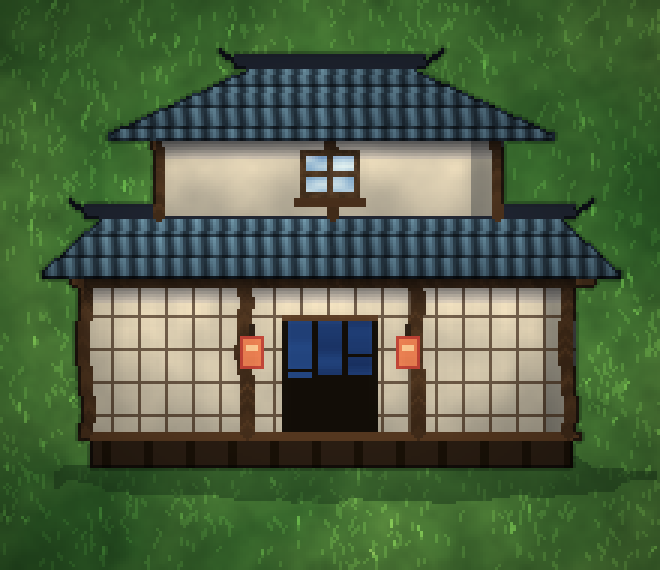
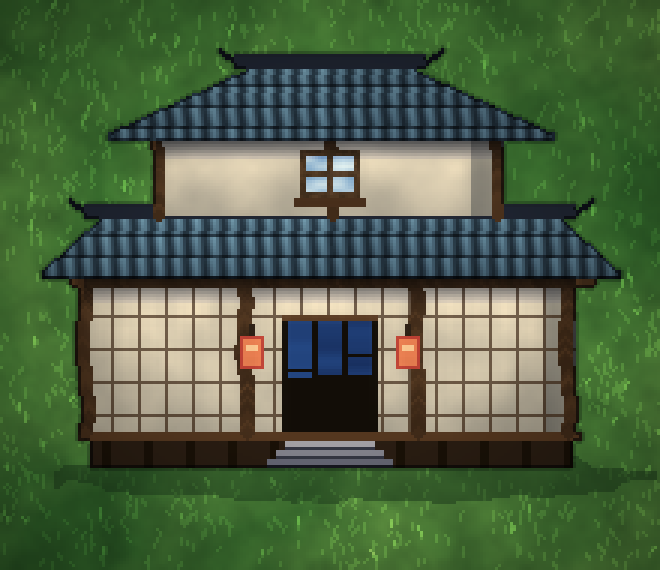
Building samples: sign frame, dojo steps, outlined windmill sails

Changed region(s): [[0.3939, 0.7754, 0.6061, 0.8351]]

diff --git a/tests/tools/buildings.test.ts b/tests/tools/buildings.test.ts
@@ -99,6 +99,10 @@ function schoolHut(r: Raster, rng: Rng): void {
   r.rect(cx - 54, base - 36, 2, 36, hex('#4a3018'));
   r.rect(cx - 70, base - 46, 34, 14, hex('#d9a85a'));
   r.rect(cx - 69, base - 45, 32, 12, hex('#f3d088'));
+  r.rect(cx - 71, base - 47, 36, 1, hex('#4a3018'));
+  r.rect(cx - 71, base - 32, 36, 1, hex('#4a3018'));
+  r.rect(cx - 71, base - 47, 1, 16, hex('#4a3018'));
+  r.rect(cx - 36, base - 47, 1, 16, hex('#4a3018'));
   for (let i = 0; i < 4; i++)
     r.rect(
       cx - 66 + i * 8,
@@ -148,6 +152,12 @@ function dojo(r: Raster, rng: Rng): void {
       );
   }
   r.rect(ex, base - 51, 32, 2, hex('#6e4525'));
+  for (let i = 0; i < 3; i++) {
+    const sw = 30 + i * 6;
+    const sy = base - 9 + i * 3;
+    r.rect(ex + 16 - sw / 2, sy, sw, 3, mix(hex('#b4b4bf'), hex('#7a7a88'), i / 2));
+    r.rect(ex + 16 - sw / 2, sy + 2, sw, 1, hex('#45454f'));
+  }
   for (const lx of [ex - 10, ex + 42]) {
     r.rect(lx - 4, base - 44, 8, 11, hex('#e04a3a'));
     r.rect(lx - 3, base - 43, 6, 9, hex('#ff8a5a'));
@@ -383,26 +393,16 @@ function windmill(r: Raster, rng: Rng): void {
     r.line(hx + 1, hy, ex + 1, ey, hex('#5a3a1f'));
     const px = -Math.sin(a);
     const py = Math.cos(a);
-    for (let s = 10; s < 50; s += 2) {
-      const sx = hx + Math.cos(a) * s;
-      const sy = hy + Math.sin(a) * s;
-      const open = Math.floor(s / 8) % 2 === 0;
-      r.line(
-        sx,
-        sy,
-        sx + px * 11,
-        sy + py * 11,
-        open ? hex('#e8e2ee') : hex('#6e4525'),
-        open ? 0.85 : 1,
-      );
+    for (let s = 8; s <= 52; s += 1) {
+      for (let t = 0; t <= 12; t += 1) {
+        const sx = hx + Math.cos(a) * s + px * t;
+        const sy = hy + Math.sin(a) * s + py * t;
+        const edge = t === 0 || t === 12 || s === 8 || s === 52;
+        const bar = s % 11 === 0 || t === 6;
+        const cloth = mix(hex('#d8d0c4'), hex('#f4efe6'), vnoise(s / 4, t / 3, 60 + k));
+        r.set(sx, sy, edge ? hex('#2a1a0e') : bar ? hex('#6e4525') : cloth);
+      }
     }
-    r.line(
-      hx + Math.cos(a) * 10 + px * 11,
-      hy + Math.sin(a) * 10 + py * 11,
-      ex + px * 11,
-      ey + py * 11,
-      hex('#3a2616'),
-    );
   }
   r.disc(hx, hy, 3.5, hex('#3a2616'));
   r.disc(hx, hy, 1.5, hex('#e0b84a'));

diff --git a/PROGRESS.md b/PROGRESS.md
@@ -42,7 +42,9 @@ different wall and roof material so places read differently at a glance:
 Shared painters in `tests/tools/buildings.ts`: plaster, stone (square or rounded,
 light or dark), plank walls; thatch, slate, tile, shingle and dome roofs; windows with
 wavy glass, plank doors, stone steps, flower boxes, ground shadows, the eave shadow.
-Every building is tracked for the boundary rim. These are the kit for the campaign
+Every building is tracked for the boundary rim. After Maor's review: the school sign got a fixed dark
+frame, the dojo got three stone steps up to its raised entry, and the windmill's sails
+became solid cloth in wooden frames with a dark outline all round. These are the kit for the campaign
 places and the Digimon-style town if those are picked.
 
 ## Organic samples and a procedural dungeon (2026-10-13, for Maor's pick)
